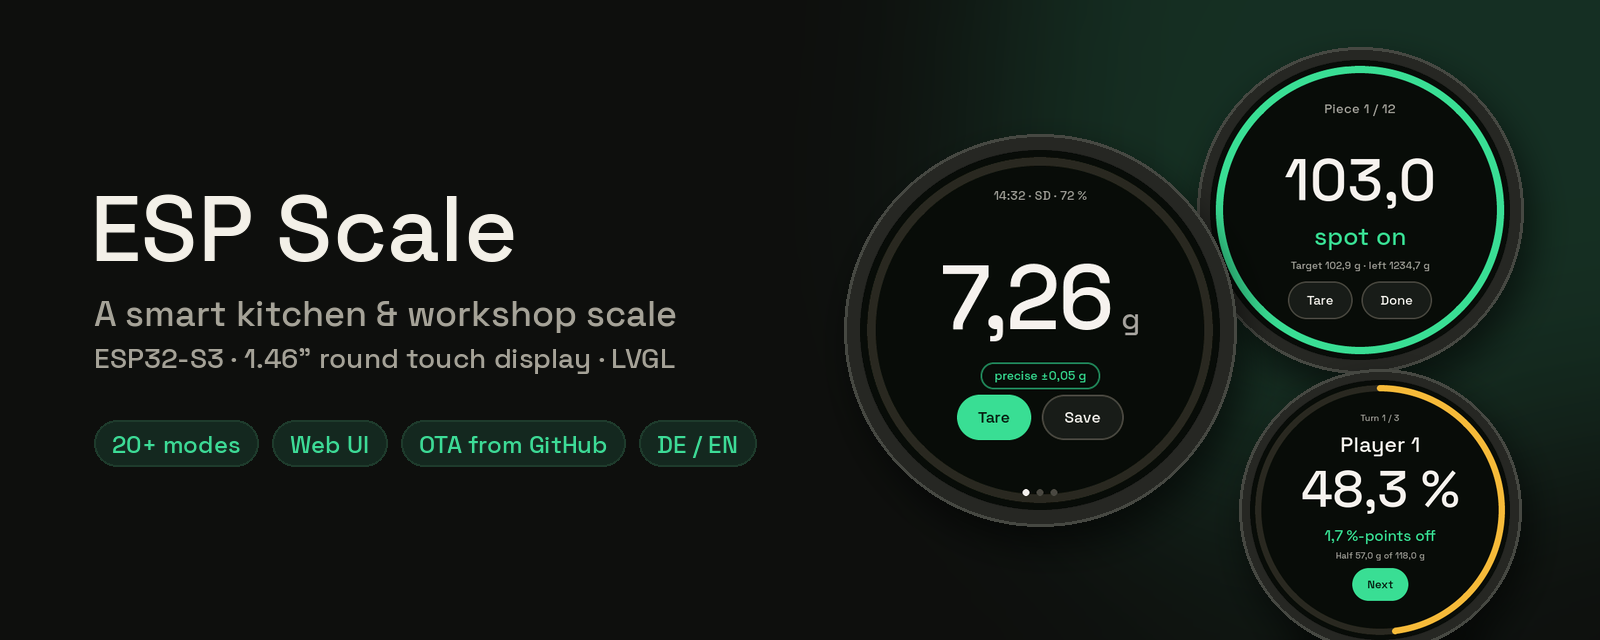
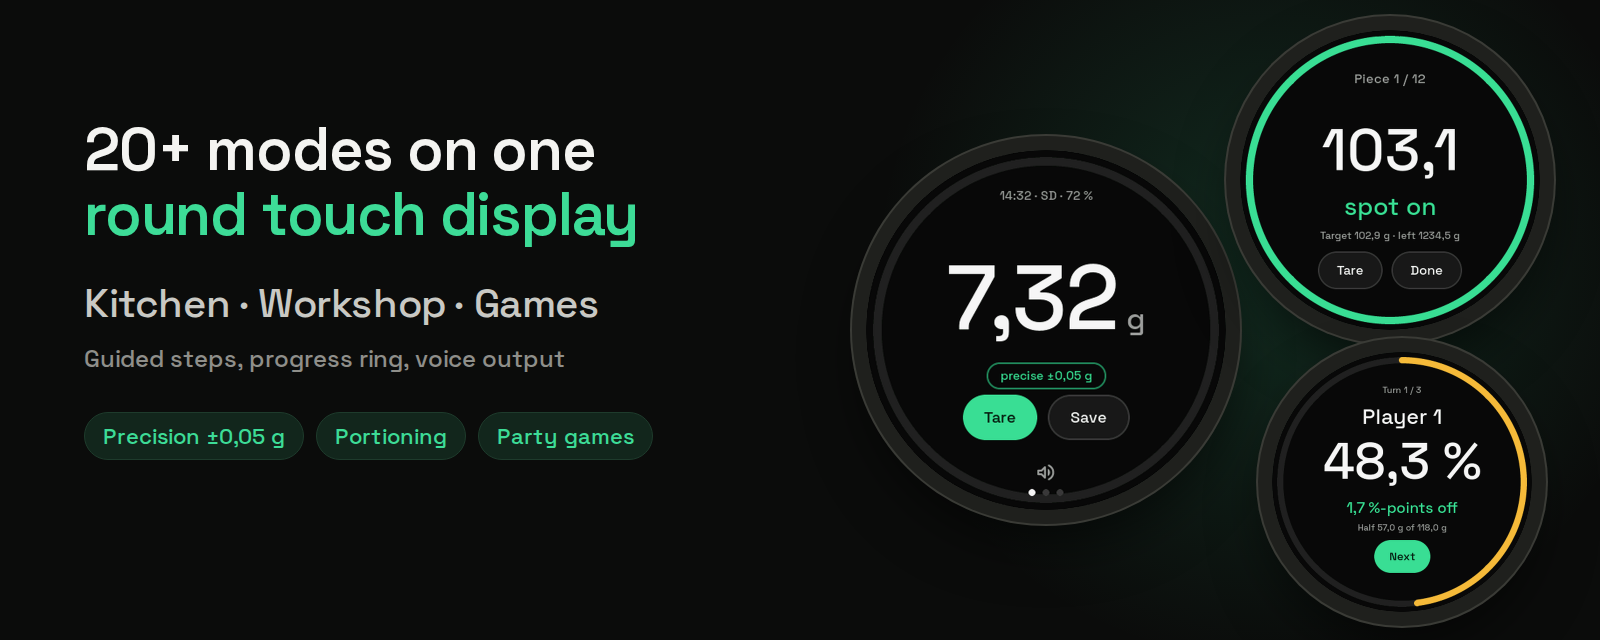
remove issue for counting mode, edit ReadMe

diff --git a/Waage/page_zaehlen.cpp b/Waage/page_zaehlen.cpp
@@ -9,6 +9,7 @@
 #include "ble_kbd.h"
 #include "sound.h"
 #include "data.h"
+#include "hal.h"
 #include <stdio.h>
 #include <math.h>
 
@@ -110,6 +111,8 @@ static lv_obj_t *zc_bt, *zc_count, *zc_info, *zc_toast;
 static lv_timer_t *zc_timer;
 static int zc_prev_bt, zc_prev_unsure;
 static int zc_last_count;
+static int zc_done_count = -1;      // zuletzt mitgeschriebene/angesagte Stückzahl
+static uint32_t zc_stable_since = 0;
 
 static void zc_ref_cb(lv_event_t *e) {
   ui_switch_page(page_ref_create());
@@ -151,8 +154,28 @@ static void zc_timer_cb(lv_timer_t *t) {
   snprintf(b, sizeof(b), "%d", count);
   ui_label_update(zc_count, b);
 
-  snprintf(b, sizeof(b), T("Zählen: %d Stk"), count);  // automatisch mitschreiben
-  if (track_update(scale_net(), scale_stable(), b)) ui_toast_show(zc_toast, "Im Protokoll gespeichert", C_ACCENT);
+  // Jede neue, ruhig liegende Stückzahl einmal mitschreiben und ansagen.
+  // Beim Zählen wird meist nachgelegt, ohne die Waage zu leeren – deshalb nicht
+  // nur einmal pro Auflegen (wie auf der Wiegeseite), sondern bei jeder Änderung.
+  {
+    float net = scale_net();
+    uint32_t now = hal_millis();
+    if (fabsf(net) < 3.0f) {           // leer: nächste Zahl wieder ansagen
+      zc_done_count = -1;
+      zc_stable_since = 0;
+    } else if (!scale_stable() || count <= 0 || count == zc_done_count) {
+      zc_stable_since = 0;
+    } else {
+      if (zc_stable_since == 0) zc_stable_since = now;
+      if (now - zc_stable_since >= 1500) {
+        zc_done_count = count;
+        zc_stable_since = 0;
+        snprintf(b, sizeof(b), T("Zählen: %d Stk"), count);
+        if (log_add(net, b)) ui_toast_show(zc_toast, "Im Protokoll gespeichert", C_ACCENT);
+        sound_speak_count(count);
+      }
+    }
+  }
 
   // Liegt das Gewicht deutlich zwischen zwei Stückzahlen?
   int unsure = (count > 0 && fabsf(pieces - count) > UNSICHER_ANTEIL) ? 1 : 0;
@@ -212,6 +235,8 @@ static lv_obj_t *page_count_create() {
   zc_prev_bt = -1;
   track_reset();
   zc_prev_unsure = -1;
+  zc_done_count = -1;  // beim Öffnen die aktuelle Stückzahl einmal ansagen
+  zc_stable_since = 0;
   zc_timer = ui_page_timer(s, zc_timer_cb, 100);
   zc_timer_cb(NULL);
   return s;

diff --git a/Waage/sound.cpp b/Waage/sound.cpp
@@ -621,7 +621,7 @@ static bool pack_ok_host(const char *pack) {
 }
 bool sound_voice_available() { return g_set.voice[0] && pack_ok_host(g_set.voice); }
 void sound_speak_weight(float grams, int unit) { (void)grams; (void)unit; }
-void sound_speak_count(int pieces) { (void)pieces; }
+void sound_speak_count(int pieces) { if (getenv("SPKDBG")) printf("ANSAGE %d Stueck\n", pieces); }  // Testumgebung
 void sound_speak_word(const char *file) { (void)file; }
 void sound_speak_weight_word(float grams, int unit, const char *word) { (void)grams; (void)unit; (void)word; }
 void sound_play_tone(sound_t s) { (void)s; }

diff --git a/README.md b/README.md
@@ -3,7 +3,7 @@
 </p>
 
 <p align="center">
-  <img src="docs/images/hero-ui.png" alt="ESP Scale user interface: weighing screen with precision mode, portioning and the half-and-half game" width="100%">
+  <img src="docs/images/hero-ui.png" alt="20+ modes on one round touch display: precision weighing, portioning and the half-and-half game" width="100%">
 </p>
 
 <p align="center">
@@ -26,11 +26,11 @@ interface is served by the scale itself. New firmware is built by GitHub Actions
 The whole UI is available in **English and German** (display, web interface and voice output).
 
 <p align="center">
-  <img src="docs/images/real-pour.jpg" alt="Pouring water into a mixing bowl on the scale" width="32%">
-  <img src="docs/images/real-front.jpg" alt="Front view: white platter, black housing, round display and power button" width="32%">
-  <img src="docs/images/real-angle.jpg" alt="The scale on a stone kitchen counter" width="32%">
+  <img src="docs/images/real-pour.jpg" alt="Kitchen: pouring water into a mixing bowl on the scale" width="32%">
+  <img src="docs/images/real-workshop.jpg" alt="Workshop: counting screws in a parts bin, the display shows 63 pieces" width="32%">
+  <img src="docs/images/real-party.jpg" alt="Games: the scale in colourful party light showing the blind-pour leaderboard" width="32%">
 </p>
-<p align="center"><sub>The prototype: 3D-printed housing in black and white, round display set into the front panel.</sub></p>
+<p align="center"><sub>Kitchen · Workshop · Games – the 3D-printed prototype in all three mode groups.</sub></p>
 
 ---
 

diff --git a/Waage/UEBERGABE.md b/Waage/UEBERGABE.md
@@ -354,6 +354,12 @@ eingebettet (Data-URI, kein zusätzlicher Pfad am Server). README zeigt oben das
   drei Fotos aus der Küche unter der Einleitung, Innenleben unter „Hardware“. Fotos zugeschnitten,
   leicht entsättigt/kontrastiert und mit Vignette; Markenprodukte im Hintergrund weggeschnitten.
 
+**Zählen (06.10.2026):** Jede neue Stückzahl, die 1,5 s ruhig liegt, wird einmal ins Protokoll
+geschrieben und angesagt (vorher nur einmal pro Auflegen über `track_update()`, beim Nachlegen kam
+nichts mehr). Gleiche Zahl = keine Wiederholung; nach dem Leeren wird wieder angesagt. Simulator:
+`SPKDBG=1 ./sim de` zeigt die Ansagen (10 -> 15 -> 20 -> leer -> 5).
+GitHub-Workflow läuft fest auf `ubuntu-24.04` statt `ubuntu-latest`.
+
 ## 6. Offene Punkte
 
 1. **Miau-Modus.** Markus erzeugt die Sounds selbst. Geplant: Ordner
